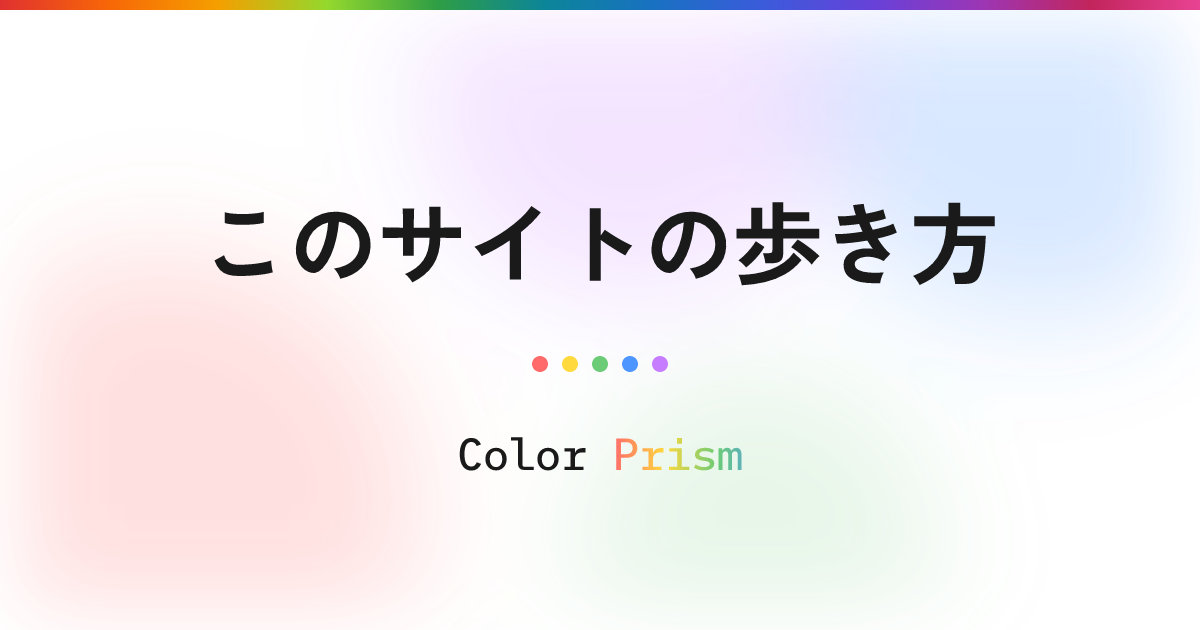
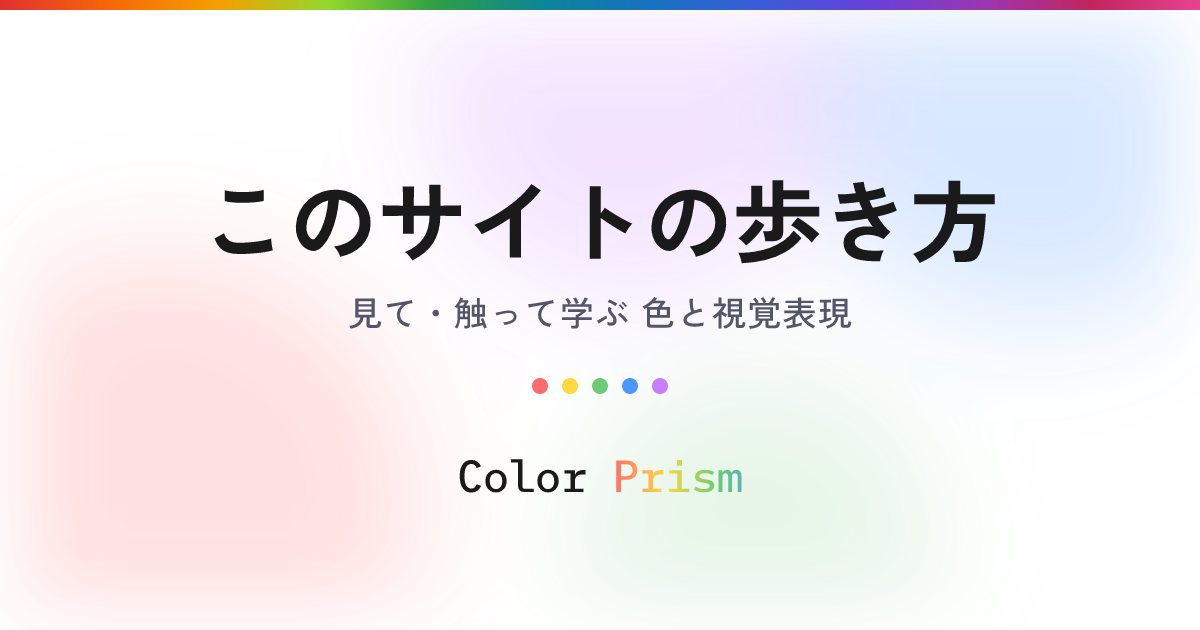
conceptページのOGP画像にサイトのタグラインを追加
「このサイトの歩き方」の下に「見て・触って学ぶ 色と視覚表現」を
default.pngと同じ文字色・文字サイズで出したい、という依頼を受けての変更。
/concept はサイト全体の案内ページなので、タイトルだけでなくサイトの性格まで
OGP画像で伝わるようにする狙い。

タグラインの有無は variation / theme と同じ「ルートの属性」として
config.mjs の OG_RULES に tagline を足し、resolveTagline で引く形にした。
記録（ogimage/data/**）には持たせないので、規則を変えれば一括再生成に
そのまま効く。単発の payload から上書きはできない。

タグラインの文字列はテンプレートに直書きせず lib/build-svg.mjs の
SITE_TAGLINE に一元化した。default.svg 側も {{TAGLINE_FILL}} 付きの
text要素をやめて <!--TAGLINE--> プレースホルダにし、両テンプレートが
同じ文言・文字色（THEMES.tagline）・文字サイズ（34）を共有する。
文言を変えるときの直し漏れを防ぐため。

縦位置は、タグライン1行ぶん背が伸びるので LAYOUT["title-only"].tagline の
titleBaseline でタイトルを 278→256 に上げ、footerDy でフッター（ドット＋
ロゴ）を22px下げて、タグライン無しの title-only と同じ視覚中心に収めた。
タイトルが2行のときはタグラインもフッターも下がり幅に追随する。

default.png は再生成してもmd5が一致（テンプレートの書き換えは描画結果に
対して no-op）。他の title-only（1行・2行）・nested・nested-fig・darkの
サンプルも再生成して差分が出ないことを確認済み。

未 push コミットに app 配下の変更が含まれるため、規約に従い CI スキップ
指示は付けない。

diff --git a/ogimage/README.md b/ogimage/README.md
@@ -95,9 +95,17 @@ node ogimage/regenerate.mjs '/color-theory/*'
 - `light`（既定）… 白地。
 - `dark` … 暗地。現在は **CG 配下（`/cg`・`/cg/**`）**に適用。地色 `#26282d` は Three.js デモの背景（`app/src/lib/demo/threejs/_shared/constants.ts` の `DEMO_BACKGROUND`）と同値で、デモのスクリーンショットを図版にしても継ぎ目が出ない。
 
-実際の配色（地色・タイトル・crumb・ロゴ・装飾のぼかし円の不透明度）は `lib/build-svg.mjs` の `THEMES` に集約する。テンプレート SVG 側は配色を直書きせず、`{{BG}}` / `{{LOGO_FILL}}` / `{{TAGLINE_FILL}}` / `{{BLOB_ALPHA}}` のプレースホルダで受ける。テーマを増やすときは `THEMES` にパレットを足し、`OG_RULES` の該当ルートに `theme` を付ける（テンプレートは触らない）。
+実際の配色（地色・タイトル・crumb・ロゴ・タグライン・装飾のぼかし円の不透明度）は `lib/build-svg.mjs` の `THEMES` に集約する。テンプレート SVG 側は配色を直書きせず、静的要素は `{{BG}}` / `{{LOGO_FILL}}` / `{{BLOB_ALPHA}}` のプレースホルダで受け、スクリプトが組み立てる要素（タイトル・crumb・タグライン）は `fill` を直に埋める。テーマを増やすときは `THEMES` にパレットを足し、`OG_RULES` の該当ルートに `theme` を付ける（テンプレートは触らない）。
 
 ぼかし円はバリエーション別に上書きできる（`blobAlphaByVariation`）。`0` を指定するとグループごと描画しない。**dark の nested-fig は `0`**：図版が地色と同じ暗地でぼかし円が乗らないため、周囲だけが光ると図版の矩形の輪郭が浮いてしまう。装飾を消して地色を一様にすると継ぎ目が完全に消える。
+
+#### タグライン
+
+`variation` / `theme` と同じく**ルートの属性**で、`config.mjs` の `OG_RULES` の `tagline` が決める（省略時は敷かない）。JSON に書く項目は無い（＝単発の上書きもできない）。
+
+- `tagline: true` のルートは、タイトルの下にサイト共通のタグライン「見て・触って学ぶ 色と視覚表現」を **default 画像と同じ文字色（`THEMES.tagline`）・文字サイズ（34）**で敷く。現在は **`/concept`**（「このサイトの歩き方」）のみ。
+- タグライン 1 行ぶん背が伸びるので、`LAYOUT["title-only"].tagline` の `titleBaseline`（タイトルを上げる）と `footerDy`（フッターを下げる）で、タグライン無しのときと同じ視覚中心に収める。タイトルが 2 行のときは、タグラインもフッターも下がり幅に追随する。
+- タグラインの文字列は `lib/build-svg.mjs` の `SITE_TAGLINE` に一元化してある（テンプレートには直書きしない）。**変えるときはアプリ側の `SITE_DESCRIPTION`（`app/src/lib/meta/og-resolve.js`）とトップページの表示もそろえる。**
 
 > **図版との相性**: `dark` のルートで**白背景の図版**を使うと暗地に白い箱が浮く。`knockoutWhite` は白を抜くので、線画が暗色だと今度は図版が読めなくなる。dark では**図版側も暗地（できれば同じ `#26282d`）**で用意する。
 
@@ -130,7 +138,7 @@ node ogimage/regenerate.mjs '/color-theory/*'
 
 ```
 ogimage/
-  config.mjs              正典設定（ルート → バリエーション/図版可否/テーマ）。スキルも参照する単一の情報源
+  config.mjs              正典設定（ルート → バリエーション/図版可否/テーマ/タグライン）。スキルも参照する単一の情報源
   render.mjs              描画スクリプト（CLI エントリ。単発/部分・fail-fast）
   regenerate.mjs         一括再生成スクリプト（CLI エントリ。記録のある全ページ・robust）
   lib/
@@ -142,7 +150,7 @@ ogimage/
     fonts.mjs            fonts/ のフォント収集
     manifest.mjs         マニフェストの読み書き（upsert / rebuild・冪等・キー昇順）
     rename-font.mjs      TTF の name テーブルのファミリー名を正規化（フォント取得時に使用）
-  template/*.svg         4 バリエーションのテンプレート（<!--TITLE--> / <!--CRUMBS--> / <!--FIGURE--> と配色トークン {{BG}} など）
+  template/*.svg         4 バリエーションのテンプレート（<!--TITLE--> / <!--CRUMBS--> / <!--TAGLINE--> / <!--FIGURE--> と配色トークン {{BG}} など）
   scripts/download-fonts.mjs   フォント取得（npm run fonts）
   data/                  記録（正）。<route>.json と assets/<route>/figure.<ext>（コミット対象）
   fonts/                 フォント実体（コミット対象）
@@ -164,7 +172,7 @@ ogimage/
 | `app/src/lib/meta/og-manifest.json`        | 派生（記録から導出）   | コミット |
 | `app/static/ogp/<route>.png`               | 生成物（出力画像）     | コミット |
 
-- 記録の `figure` は `ogimage/data/` 基準の相対パス。バリエーション・テーマは記録に持たず、route から `config.mjs` の `resolveVariation` / `resolveTheme` で引き直す（`figure` の有無で `optional → nested-fig` を昇格）。規則を変えれば一括再生成でそのまま全体に効く。
+- 記録の `figure` は `ogimage/data/` 基準の相対パス。バリエーション・テーマ・タグラインの有無は記録に持たず、route から `config.mjs` の `resolveVariation` / `resolveTheme` / `resolveTagline` で引き直す（`figure` の有無で `optional → nested-fig` を昇格）。規則を変えれば一括再生成でそのまま全体に効く。
 
 ## 制約
 

diff --git a/.claude/skills/generate-ogp-image/SKILL.md b/.claude/skills/generate-ogp-image/SKILL.md
@@ -85,10 +85,11 @@ cd ogimage && npm install && npm run fonts && cd ..
 
 ### 2. バリエーションを判定する（正典設定）
 
-- **`ogimage/config.mjs` が唯一の情報源**。ルート → バリエーション種別・図版の可否・テーマをここで定義している。
+- **`ogimage/config.mjs` が唯一の情報源**。ルート → バリエーション種別・図版の可否・テーマ・タグラインの有無をここで定義している。
 - 各対象ルートについて、`config.mjs` の `OG_RULES`（上から最初にマッチした規則を採用）で
   `variation`（`default` / `title-only` / `nested` / `nested-fig`）と `figure`（`none` / `optional` / `required`）を得る。
 - `theme`（`light` / `dark`・省略時 `light`）も規則が持つ。描画スクリプトが route から自動で引くので、**通常は JSON に書かない**。CG 配下（`/cg`・`/cg/**`）は `dark`（地色 `#26282d`）。
+- `tagline`（`true` / 省略）も規則が持つ。`true` のルートはタイトルの下にサイト共通のタグライン「見て・触って学ぶ 色と視覚表現」を敷く（default 画像と同じ文字色・文字サイズ）。route から自動で引くので **JSON に書く項目は無く、上書きもできない**（現在は `/concept` だけ）。
 - **例外：Three.js デモの図版しか無いページは `light` のルートでも `dark` で生成する**（下記）。
 - 規則に該当しないルートは**明確なエラーで停止**し、勝手に生成しない。
 
@@ -265,7 +266,7 @@ render.mjs は nested-fig の図版を `ogimage/data/assets/<route>/figure.<ext>
 | ルート | variation | title の取得元 | crumbs（トップ区分＋中間カテゴリ） |
 | --- | --- | --- | --- |
 | `/` | default | （不要。メイン=サイト名） | — |
-| `/concept` | title-only | 「このサイトの歩き方」（`app/src/lib/layouts/concept.svelte`） | — |
+| `/concept` | title-only | 「このサイトの歩き方」（`app/src/lib/layouts/concept.svelte`） | —（`config.mjs` の `tagline: true` でタイトル下にタグラインが入る） |
 | `/color-theory`, `/color-fields`, `/jis-color-map`, `/cg` | title-only | `app/src/lib/meta/site-nav.ts` の該当 NAV アイテム label（色の理論 / 色の活用分野 / 慣用色名マップ / CGと画像処理） | — |
 | `/patterns` | title-only | 「配色シミュレータ」（`app/src/routes/patterns/+page.svelte` の `<title>`） | — |
 | `/jis-color-map/all` | title-only | 「すべての慣用色名一覧」（`+page.svelte` の `<title>`） | — |
